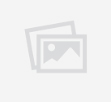
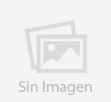
Validar foto de empresa para que no se caiga informe de Impuestos

Changed region(s): [[0.3784, 0.7941, 0.8378, 0.9412], [0.1622, 0.7941, 0.3514, 0.9118]]

diff --git a/controllers/informe.php b/controllers/informe.php
@@ -637,6 +637,15 @@ if( $_POST ){
 
     
     if( @$action == 'impuesto' ){
+
+
+        if( file_exists( ROOT . '/private/uploads/images/' . fotoEmpresa( $_SESSION[PREFIX.'login_eid'] ) ) ){
+            $foto_empresa =  ROOT . '/private/uploads/images/' . fotoEmpresa( $_SESSION[PREFIX.'login_eid'] );
+        } else {
+            $foto_empresa = ROOT . '/public/img/no_img.jpg';
+        }
+
+
         $mes = $mesImpuesto;
         $ano = $anoImpuesto;
         $empresa_id = $_SESSION[PREFIX.'login_eid'];
@@ -669,7 +678,7 @@ if( $_POST ){
         $html .= 'td{ border: 1px solid #000; padding: 2px 5px; }';
         $html .= '</style>';
         $html .= '<page backtop="1mm" backbottom="0mm" backleft="10mm" backright="10mm" style="font-size: 10pt">';
-        $html .= '<img class="round" src="'. ROOT .'/private/uploads/images/'. fotoEmpresa( $_SESSION[PREFIX.'login_eid'] ) .'">';
+        $html .= '<img class="round" src="'.$foto_empresa.'">';
         $html .= '<h2 style="text-align: center;"> Impuesto único del mes de ' . getNombreMes($mes) . ' de '. $ano .' </h2>';
         $html .= '<table style="border-collapse:collapse" align="center">';
         $html .= '<tr>';

diff --git a/models/informe.php b/models/informe.php
@@ -181,7 +181,7 @@ function marcoAtrasado( $trabajador_id, $horario_id, $checktime ){
 function fotoEmpresa($eid){
     global $db;
     $db->where('id',$eid);
-    $foto = $db->getValue('m_empresa','foto');    
+    $foto = $db->getValue('m_empresa','foto');
 
     return $foto;
 }
